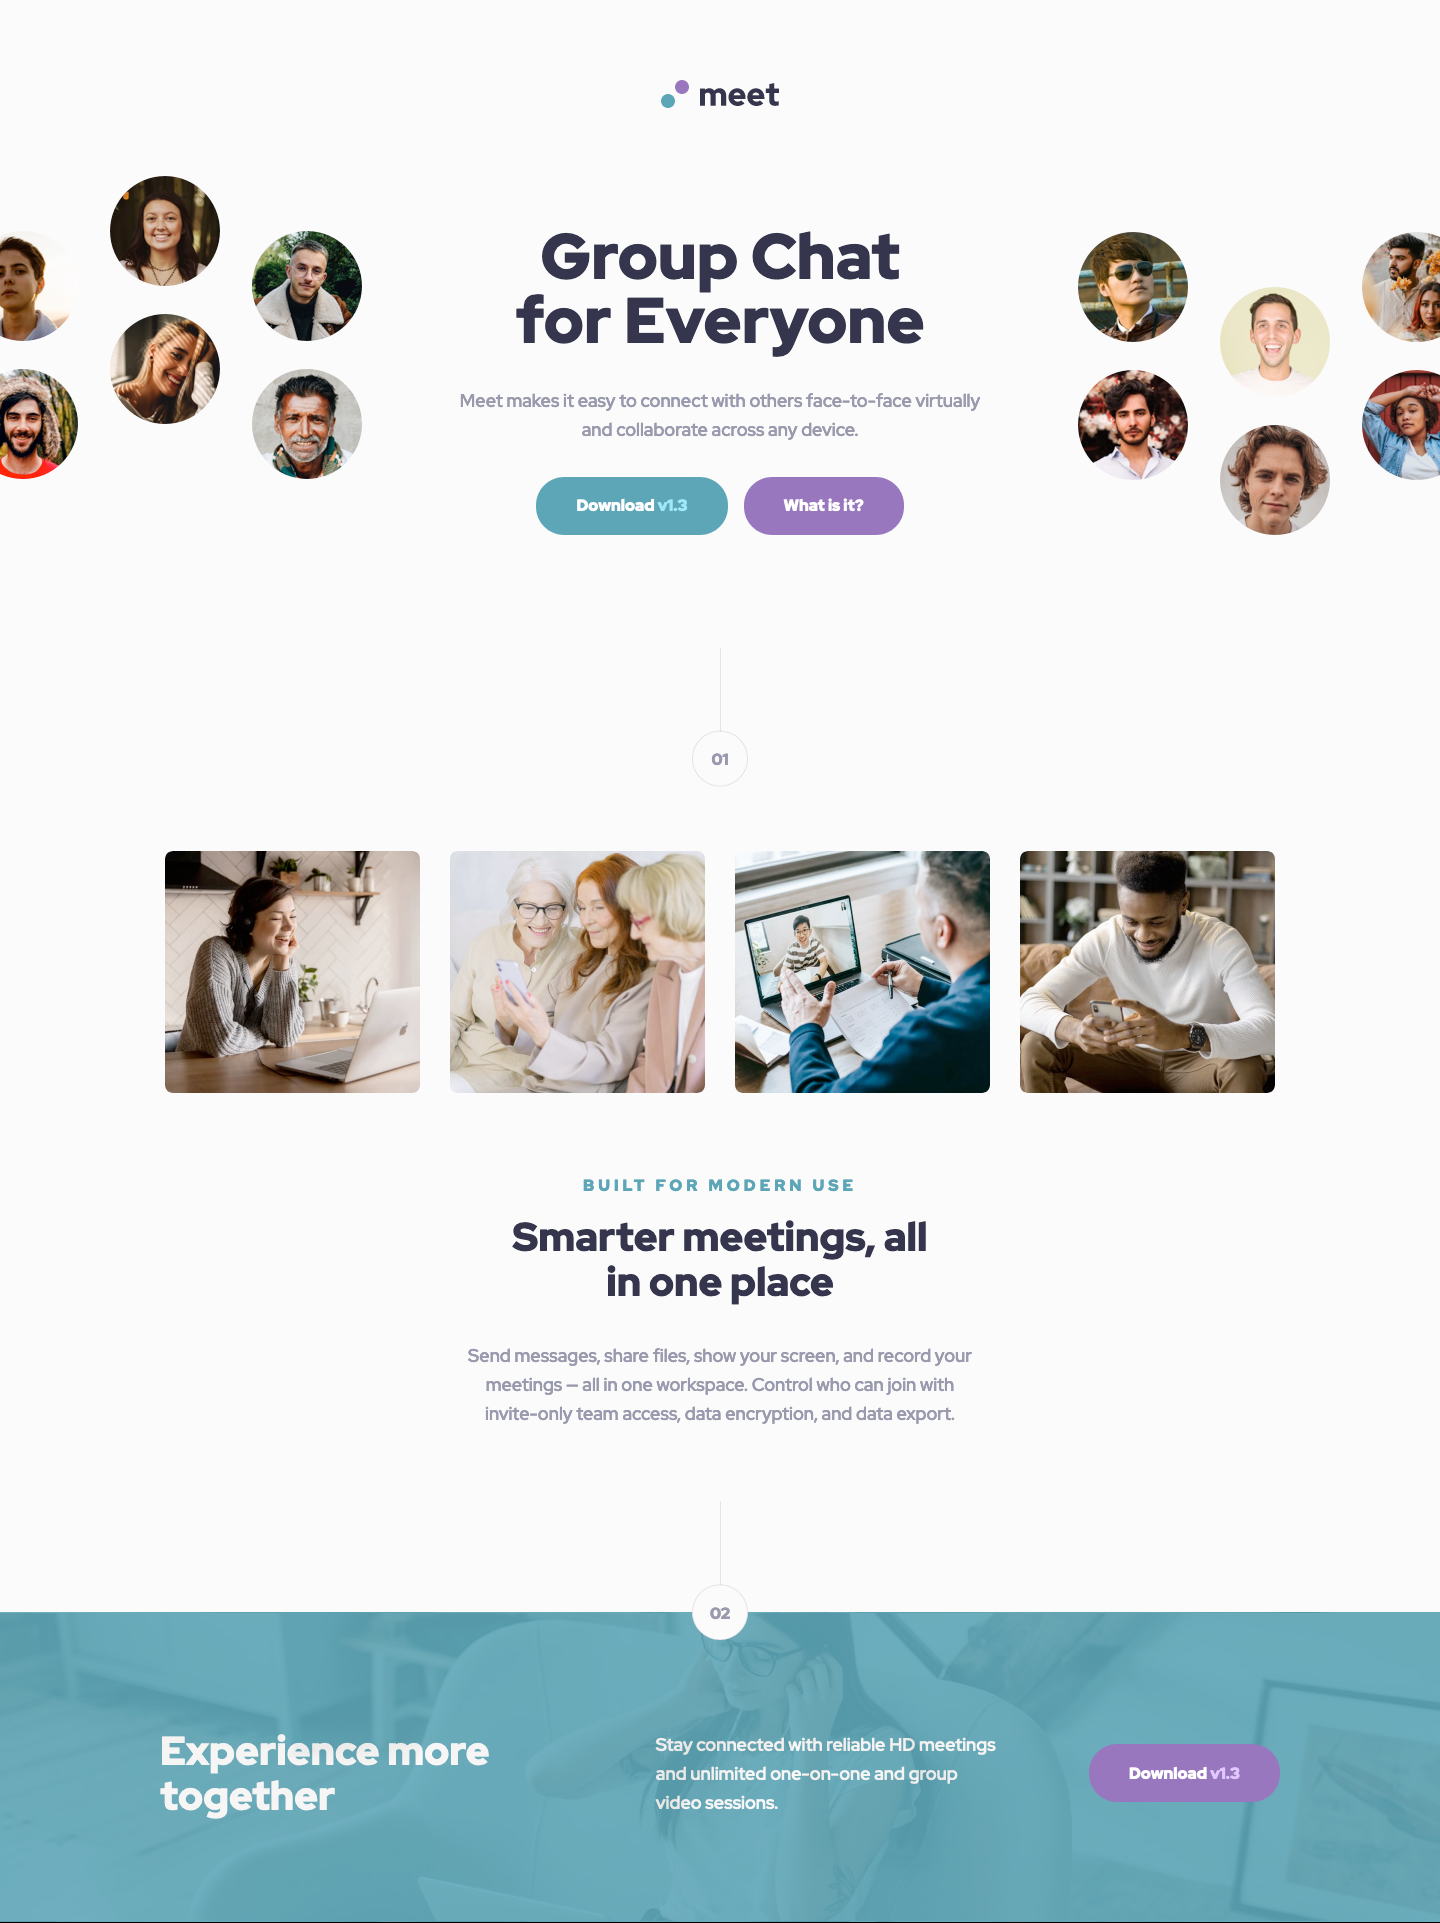
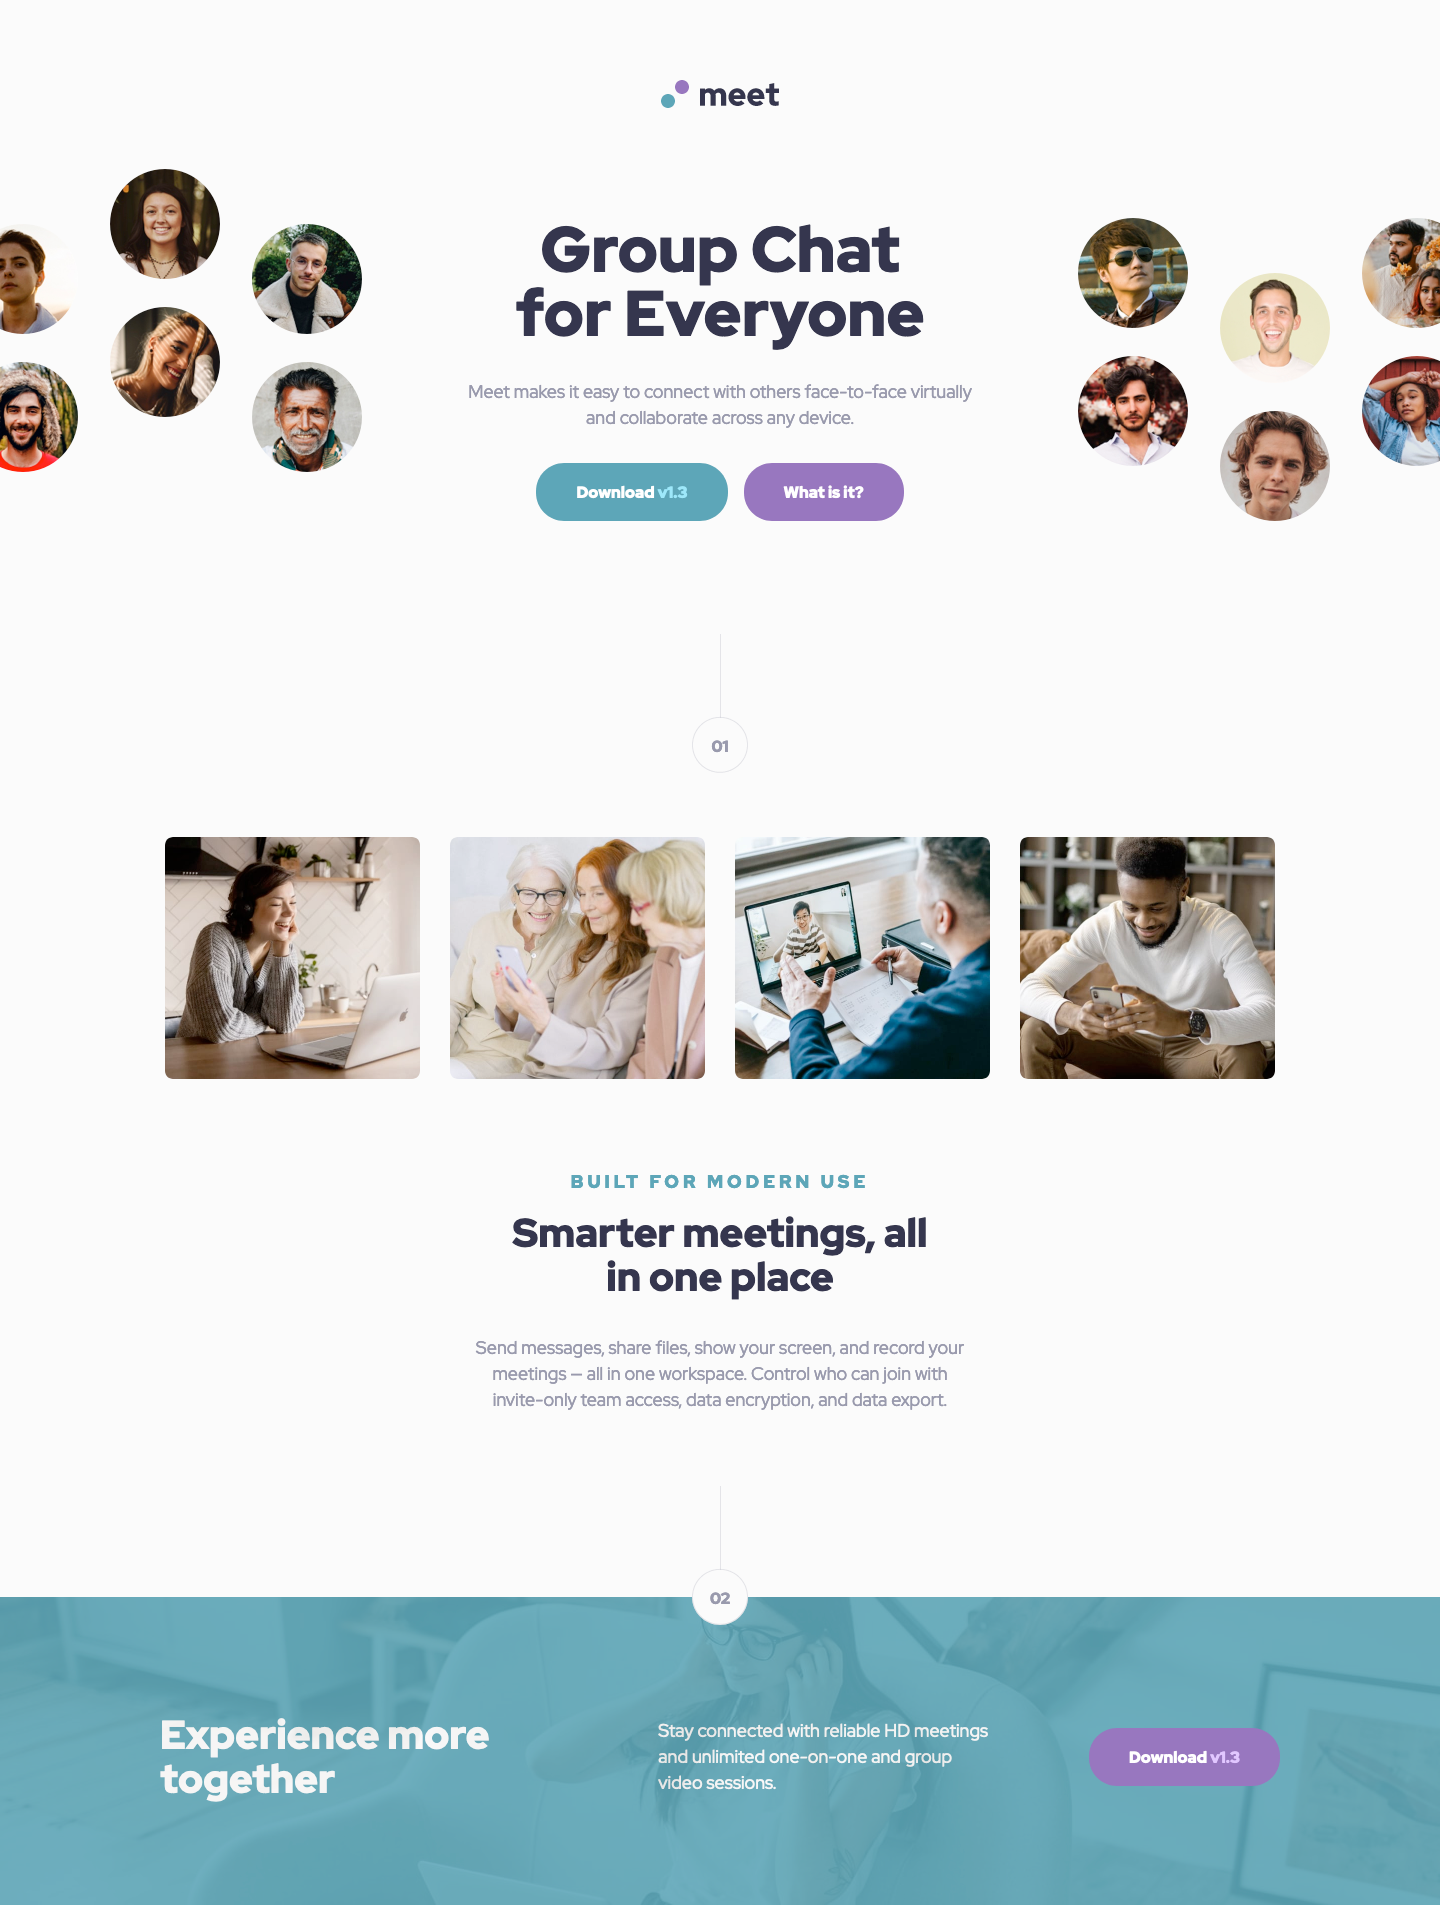
Fix font and header image size

diff --git a/stylesheets/main.css b/stylesheets/main.css
@@ -1,4 +1,4 @@
-@import url('https://fonts.googleapis.com/css2?family=Red+Hat+Display:wght@500;900&display=swap');
+@import url('https://fonts.googleapis.com/css2?family=Red+Hat+Display:wght@400;900&display=swap');
 
 * {
     margin: 0;
@@ -8,15 +8,15 @@
 
 body {
     font-family: 'Red Hat Display', sans-serif;
-    font-weight: 500;
+    font-weight: 400;
     font-size: 16px;
-    line-height: 1.625;
+    line-height: 26px;
     text-align: center;
     color: #87879d;
     background: #fafafa;
 }
 
-h1, h2, h3, .button, .section-number {
+h1, h2, .sub-heading, .button, .section-number {
     font-weight: 900;
 }
 
@@ -34,9 +34,12 @@ h1, h2 {
     color: #28283d;
 }
 
-h3 {
-    font-size: 16px;
-    color :#4d96a9;
+img {
+    display: block;
+}
+
+.sub-heading {
+    color: #4d96a9;
     text-transform: uppercase;
     letter-spacing: 4px;
 }
@@ -81,13 +84,16 @@ header {
     margin: 3em 0 3.375em;
 }
 
+header img {
+    margin: 0 auto;
+}
+
 main {
     overflow: hidden;
     margin-bottom: 4em;
 }
 
 main img {
-    display: block;
     margin: 0 -5.5%;
     width: 111%;
     object-fit: cover;
@@ -161,7 +167,7 @@ main p {
     margin-top: 0.75em;
 }
 
-.section-1 h3 {
+.section-1 .sub-heading {
     margin-top: 4em;
 }
 
@@ -210,6 +216,7 @@ main p {
 
     h2 {
         font-size: 2.5rem;
+        line-height: 1.1;
     }
 
     header {
@@ -256,7 +263,7 @@ main p {
         padding: 0 6.125em;
     }
 
-    .section-1 h3 {
+    .section-1 .sub-heading {
         margin-top: 3em;
     }
 
@@ -292,7 +299,7 @@ main p {
         display: unset;
     }
 
-    main h1 {
+    h1 {
         font-size: 4em;
     }
 
@@ -329,7 +336,7 @@ main p {
     }
 
     .main-text {
-        padding: 0 5.5em;
+        padding: 0 6em;
     }
 
     main h1 {
@@ -358,7 +365,7 @@ main p {
         padding: 0;
     }
 
-    .section-1 h3 {
+    .section-1 .sub-heading {
         margin-top: 5em;
     }
 

diff --git a/index.html b/index.html
@@ -29,9 +29,9 @@
     <img src="assets/desktop/image-hero-right.png" alt="More faces of people" class="desktop right-faces">
   </main>
 
-  <div class="section-number">01</div>
-  <section class="section-1">
+  <figure class="section-number">01</figure>
 
+  <section class="section-1" aria-label="1">
     <div class="section-1-images">
       <img src="assets/desktop/image-woman-in-videocall.jpg" alt="Woman in video call">
       <img src="assets/desktop/image-women-videochatting.jpg" alt="Women videochatting">
@@ -39,7 +39,7 @@
       <img src="assets/desktop/image-man-texting.jpg" alt="Man texting">
     </div>
     <div class="section-1-text">
-      <h3>Built for modern use</h3>
+      <p class="sub-heading">Built for modern use</p>
       <h2>Smarter meetings, all in one place</h2>
       <p>
         Send messages, share files, show your screen, and record your meetings — all in one
@@ -48,13 +48,13 @@
     </div>
   </section>
 
-  <div class="section-number">02</div>
-  <section class="section-2">
+  <figure class="section-number">02</figure>
+
+  <section class="section-2" aria-label="2">
     <h2>Experience more together</h2>
     <p>
       Stay connected with reliable HD meetings and unlimited one&#8209;on&#8209;one and group video sessions.
     </p>
-
     <a href="#" class="button button-secondary">Download <span class="version">v1.3</span></a>
   </section>
 </body>
